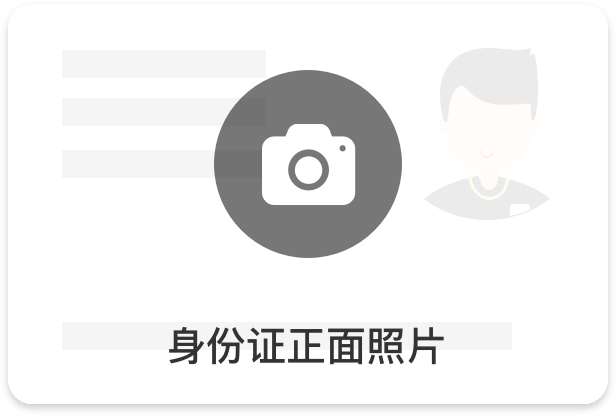
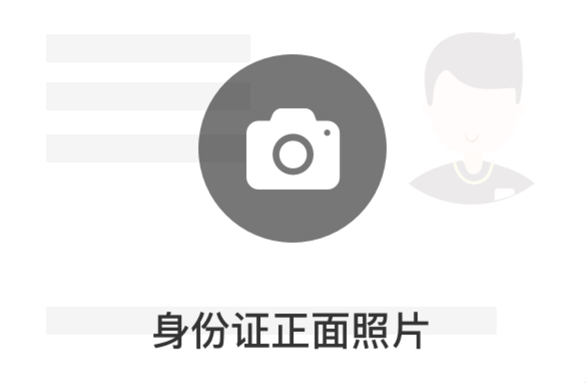
feat: merchant settle in

diff --git a/src/pages/merchant/SettleIn.vue b/src/pages/merchant/SettleIn.vue
@@ -75,16 +75,12 @@
           <div class="form-wrap">
             <div class="form-item">
               <div class="form-title">店铺名称</div>
-              <input
-                class="input"
-                type="text"
-                placeholder="请输入实体店铺名称"
-              />
+              <input class="input" type="text" placeholder="例：小明的店" />
             </div>
             <div class="form-item">
               <div class="form-title">联系地址</div>
               <div
-                class="area-picker"
+                class="picker"
                 :class="{ active: pickedAreaDesc }"
                 @click="areaPickerPopupVisible = true"
               >
@@ -120,12 +116,124 @@
           <div class="title">请上传个人身份相关信息</div>
           <div class="form-wrap">
             <div class="form-item">
+              <div class="form-title">请点击上传身份证正反面照片</div>
+              <div class="uploader-wrap">
+                <Uploader max-count="1" :after-read="uploadIdCardFrontPhoto">
+                  <img
+                    class="photo"
+                    :src="idCardFrontPhoto || require('./images/front.png')"
+                    alt=""
+                  />
+                </Uploader>
+                <Uploader max-count="1" :after-read="uploadIdCardBehindPhoto">
+                  <img
+                    class="photo"
+                    :src="idCardFrontPhoto || require('./images/behind.png')"
+                    alt=""
+                  />
+                </Uploader>
+              </div>
+            </div>
+            <div class="form-item">
+              <div class="form-title">请点击上传手持身份证照片</div>
+              <div class="uploader-wrap">
+                <Uploader max-count="1" :after-read="uploadPersonalPhoto">
+                  <img
+                    class="photo"
+                    v-if="personalPhoto"
+                    :src="personalPhoto"
+                    alt=""
+                  />
+                  <div class="default-img" v-else>
+                    <div class="img-wrap">
+                      <img
+                        style="width: 0.5rem; height: 0.5rem"
+                        src="./images/camera.png"
+                        alt=""
+                      />
+                    </div>
+                    <div class="desc">手持身份证照片</div>
+                  </div>
+                </Uploader>
+                <img class="photo" src="./images/person-example.png" alt="" />
+              </div>
+            </div>
+            <div class="form-item">
               <div class="form-title">姓名</div>
-              <input class="input" type="text" placeholder="请输入姓名" />
+              <input class="input" type="text" placeholder="例：小明" />
             </div>
             <div class="form-item">
               <div class="form-title">身份证号</div>
-              <input class="input" type="text" placeholder="请输入身份证号" />
+              <input
+                class="input"
+                type="text"
+                placeholder="请输入18位身份证号"
+              />
+            </div>
+          </div>
+        </div>
+        <div class="part" v-show="step === 3">
+          <div class="title">请填写银行相关信息</div>
+          <div class="form-wrap">
+            <div class="form-item">
+              <div class="form-title">持卡人姓名</div>
+              <input class="input" type="text" placeholder="例：小明" />
+            </div>
+            <div class="form-item">
+              <div class="form-title">个人银行账号</div>
+              <input
+                class="input"
+                type="number"
+                placeholder="例：622123456789012345"
+              />
+            </div>
+            <div class="form-item">
+              <div class="form-title">开户银行及支行名称</div>
+              <input
+                class="input"
+                type="text"
+                placeholder="例：中国招商银行城西支行"
+              />
+            </div>
+          </div>
+        </div>
+        <div class="part" v-show="step === 4">
+          <div class="title">请填写小鱼小店信息</div>
+          <div class="form-wrap">
+            <div class="form-item">
+              <div class="form-title">店铺名称</div>
+              <input class="input" type="text" placeholder="例：小明的店" />
+            </div>
+            <div class="form-item">
+              <div class="form-title">店铺分类</div>
+              <div
+                class="picker"
+                :class="{ active: pickedCategoryDesc }"
+                @click="categoryPickerPopupVisible = true"
+              >
+                {{ pickedCategoryDesc || "请选择店铺分类" }}
+              </div>
+              <Popup
+                v-model:show="categoryPickerPopupVisible"
+                position="bottom"
+                round
+              >
+                <Picker
+                  :columns="[
+                    { text: '水果生鲜', value: 1 },
+                    { text: '服饰箱包', value: 2 },
+                    { text: '美妆个护', value: 3 },
+                    { text: '数码电器', value: 4 },
+                    { text: '居家日用', value: 5 },
+                    { text: '食品饮料', value: 6 },
+                    { text: '母婴玩具', value: 7 },
+                    { text: '宠物生活', value: 8 },
+                    { text: '特殊类目', value: 9 },
+                  ]"
+                  @confirm="categoryConfirm"
+                  @cancel="categoryPickerPopupVisible = false"
+                />
+              </Popup>
             </div>
           </div>
         </div>
@@ -141,18 +249,26 @@
 </template>
 
 <script setup lang="ts">
-import { Checkbox, Area, Popup } from "vant";
+import { Checkbox, Area, Popup, Uploader, Picker } from "vant";
 import { ref } from "vue";
 import { useRouter } from "vue-router";
 import { areaList } from "@vant/area-data";
 
+const cate = [];
+
 const router = useRouter();
-const step = ref(1);
+const step = ref(4);
 const agreementsChecked = ref(false);
 const curTypeOptionIdx = ref(-1);
 const areaPickerPopupVisible = ref(false);
 const pickedArea = ref<string[]>([]);
 const pickedAreaDesc = ref("");
+const idCardFrontPhoto = ref("");
+const idCardBehindPhoto = ref("");
+const personalPhoto = ref("");
+const categoryPickerPopupVisible = ref(false);
+const pickedCategory = ref(0);
+const pickedCategoryDesc = ref("");
 
 interface RegionOption {
   text: string;
@@ -169,6 +285,26 @@ const areaConfirm = ({
   pickedArea.value = selectedValues;
   pickedAreaDesc.value = `${selectedOptions[0].text} ${selectedOptions[1].text} ${selectedOptions[2].text}`;
   areaPickerPopupVisible.value = false;
+};
+const uploadIdCardFrontPhoto = (file: any) => {
+  idCardFrontPhoto.value = file.content;
+};
+const uploadIdCardBehindPhoto = (file: any) => {
+  idCardBehindPhoto.value = file.content;
+};
+const uploadPersonalPhoto = (file: any) => {
+  personalPhoto.value = file.content;
+};
+const categoryConfirm = ({
+  selectedValues,
+  selectedOptions,
+}: {
+  selectedValues: number[];
+  selectedOptions: RegionOption[];
+}) => {
+  pickedCategory.value = selectedValues[0];
+  pickedCategoryDesc.value = selectedOptions[0].text;
+  categoryPickerPopupVisible.value = false;
 };
 const checkAgreement = () => router.push("/agreement/merchant_agreement");
 </script>
@@ -334,7 +470,7 @@ const checkAgreement = () => router.push("/agreement/merchant_agreement");
           flex: 1;
           overflow-y: scroll;
           .form-item {
-            margin-bottom: 0.32rem;
+            margin-bottom: 0.42rem;
             font-size: 0;
             .form-title {
               padding-left: 0.12rem;
@@ -343,7 +479,7 @@ const checkAgreement = () => router.push("/agreement/merchant_agreement");
               font-weight: 550;
             }
             .input,
-            .area-picker {
+            .picker {
               margin-top: 0.12rem;
               padding: 0 0.24rem;
               height: 1rem;
@@ -354,12 +490,44 @@ const checkAgreement = () => router.push("/agreement/merchant_agreement");
             .input {
               width: 100%;
             }
-            .area-picker {
+            .picker {
               display: flex;
               align-items: center;
               color: #777;
               &.active {
                 color: #333;
+              }
+            }
+            .uploader-wrap {
+              margin-top: 0.2rem;
+              display: flex;
+              justify-content: space-between;
+              .photo,
+              .default-img {
+                width: 3.3rem;
+                height: 2.14rem;
+                box-shadow: 0 0 10px 0 #e6e6e6;
+                border-radius: 0.24rem;
+              }
+              .default-img {
+                display: flex;
+                flex-direction: column;
+                align-items: center;
+                justify-content: center;
+                .img-wrap {
+                  display: flex;
+                  align-items: center;
+                  justify-content: center;
+                  width: 1rem;
+                  height: 1rem;
+                  background: rgba(0, 0, 0, 0.6);
+                  border-radius: 50%;
+                }
+                .desc {
+                  margin-top: 0.3rem;
+                  color: #000;
+                  font-size: 0.2rem;
+                }
               }
             }
           }
